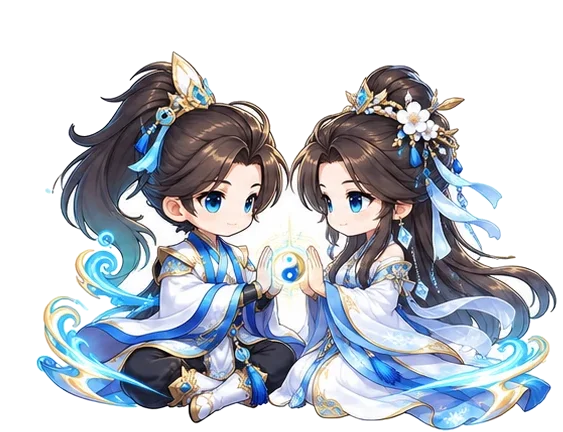
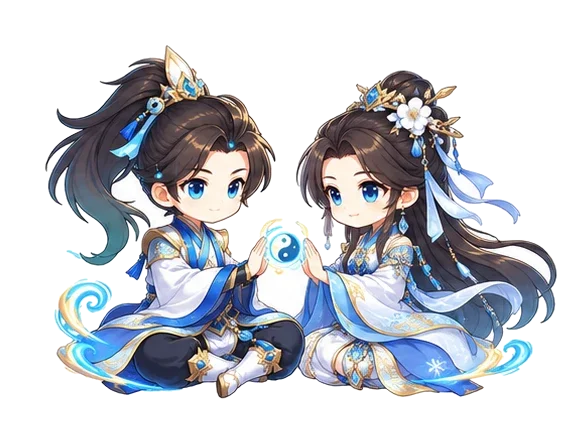
Home: 36-frame dual cultivation

diff --git a/src/features/companion/domain/companionSprites.ts b/src/features/companion/domain/companionSprites.ts
@@ -119,16 +119,16 @@ export const heroCultivationSprite: CompanionSprite = {
   blendMs: 0,
 };
 
-/** The hero and a dao companion cultivating together on the home page: breathe in, circulate qi, peak (frames 15-18, held), breathe out. */
+/** The hero and a dao companion cultivating together on the home page: breathe in, circulate qi, peak (frames 22-27, held), breathe out; 36 frames. */
 const dualCultivationSprites: Readonly<Record<string, CompanionSprite>> = {
   "lin-tingxue": {
     sheet: "/assets/companions/dual_lin_tingxue-sheet.webp",
     poster: "/assets/companions/dual_lin_tingxue-poster.webp",
     cols: 6,
-    cellWidth: 563,
-    cellHeight: 432,
+    cellWidth: 581,
+    cellHeight: 428,
     // Short holds and a long cross-fade, so the small changes between frames melt into each other instead of ticking.
-    steps: range(24).map(cell => ({ cell, holdMs: cell >= 14 && cell <= 17 ? 170 : 110 })),
+    steps: range(36).map(cell => ({ cell, holdMs: cell >= 21 && cell <= 26 ? 160 : 110 })),
     blendMs: 90,
   },
 };

diff --git a/src/styles.css b/src/styles.css
@@ -288,7 +288,7 @@ canvas {
 .cultivating-view-toggle button[aria-pressed="true"] { background: linear-gradient(180deg, #ffe39a, #d99a3c); color: #3a2208; font-weight: 700; }
 .cultivating-view-toggle button:focus-visible { outline: 2px solid #fff3c4; outline-offset: 2px; }
 /* Two people side by side: wider and landscape. */
-.cultivating-character--dual { aspect-ratio: 563 / 432; transform-origin: 50% 92%; animation: dual-breathe var(--loop, 5s) ease-in-out infinite; }
+.cultivating-character--dual { aspect-ratio: 581 / 428; transform-origin: 50% 92%; animation: dual-breathe var(--loop, 5s) ease-in-out infinite; }
 /* The two breathe together: the picture swells a little with the inhale and settles with the exhale. No glow of its own; the qi is in the drawing. */
 @keyframes dual-breathe {
   0%, 100% { transform: scale(1) translateY(0); }

diff --git a/src/features/companion/domain/companionSprites.test.ts b/src/features/companion/domain/companionSprites.test.ts
@@ -66,7 +66,7 @@ describe("companion sprite playback", () => {
   it("plays the two-person meditation for Lin Tingxue and leaves other companions solo", () => {
     const dual = getDualCultivationSprite("lin-tingxue");
     expect(dual).not.toBeNull();
-    expect(dual?.steps.map(step => step.cell)).toEqual(Array.from({ length: 24 }, (_, index) => index));
+    expect(dual?.steps.map(step => step.cell)).toEqual(Array.from({ length: 36 }, (_, index) => index));
     expect(getDualCultivationSprite("tingxue")).toBe(dual);
     expect(getDualCultivationSprite("su-wanqing")).toBeNull();
     expect(getDualCultivationSprite(null)).toBeNull();
